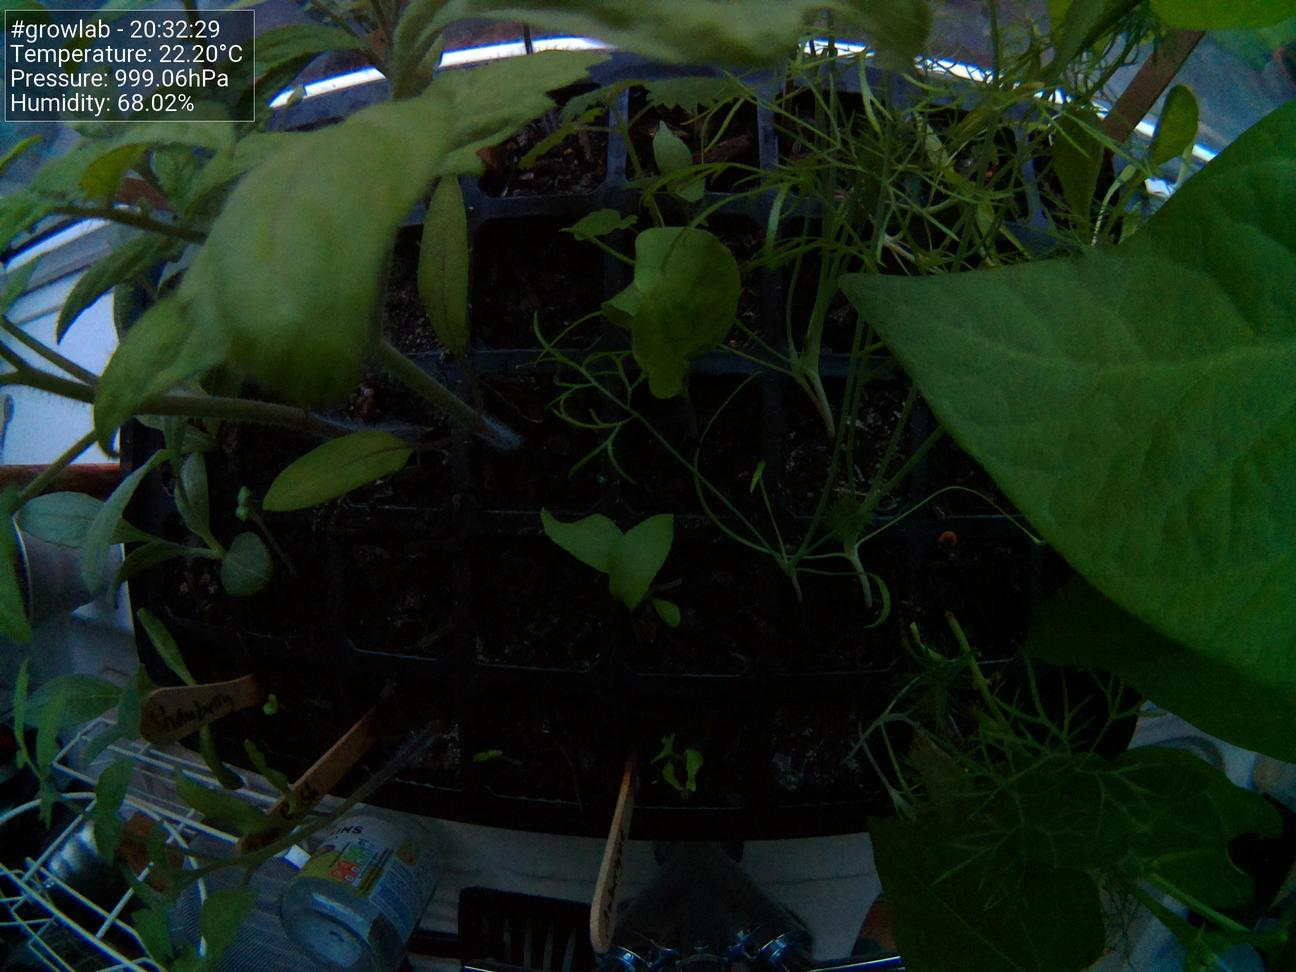
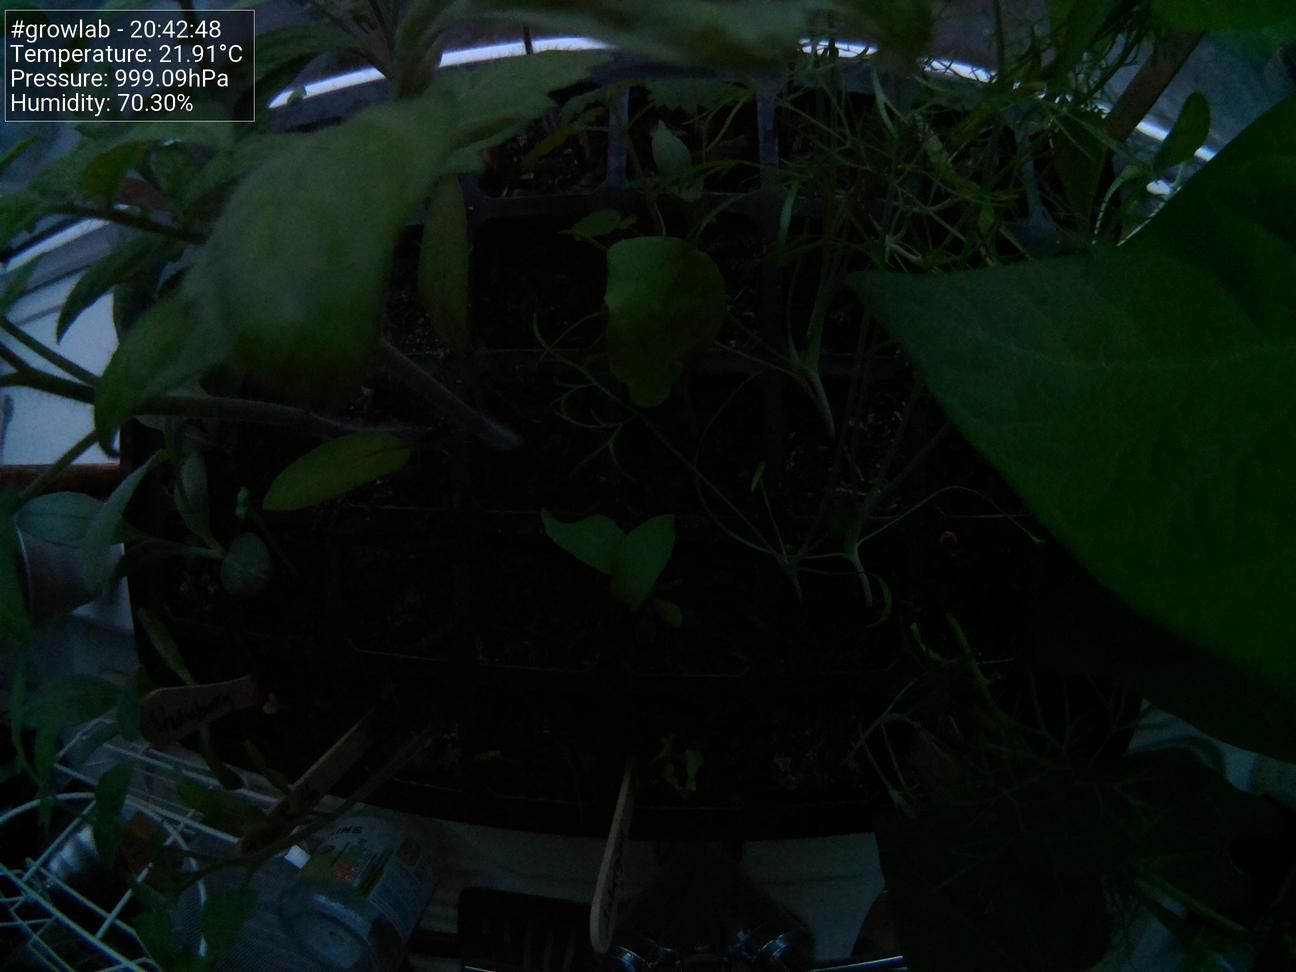
Update images at Sat  8 May 20:42:59 BST 2021

diff --git a/docs/index.html b/docs/index.html
@@ -38,19 +38,19 @@
                     <tbody>
                         <tr>
                             <td>Time</td>
-                            <td>20:32:29</td>
+                            <td>20:42:48</td>
                         </tr>
                         <tr>
                             <td>Temperature</td>
-                            <td>22.20°C</td>
+                            <td>21.91°C</td>
                         </tr>
                         <tr>
                             <td>Humidity</td>
-                            <td>68.02%</td>
+                            <td>70.30%</td>
                         </tr>
                         <tr>
                             <td>Pressure</td>
-                            <td>999.06hPa</td>
+                            <td>999.09hPa</td>
                         </tr>
                     </tbody>
                 </table>
@@ -58,7 +58,7 @@
 
                 <h5>Latest image</h5>
 		<div style="width: 85%;">
-	                <img class="figure-img img-fluid rounded" src="./preview.jpg?uid=1620502359.9832833">
+	                <img class="figure-img img-fluid rounded" src="./preview.jpg?uid=1620502978.7849965">
 		</div>
             </div>
         </div>
